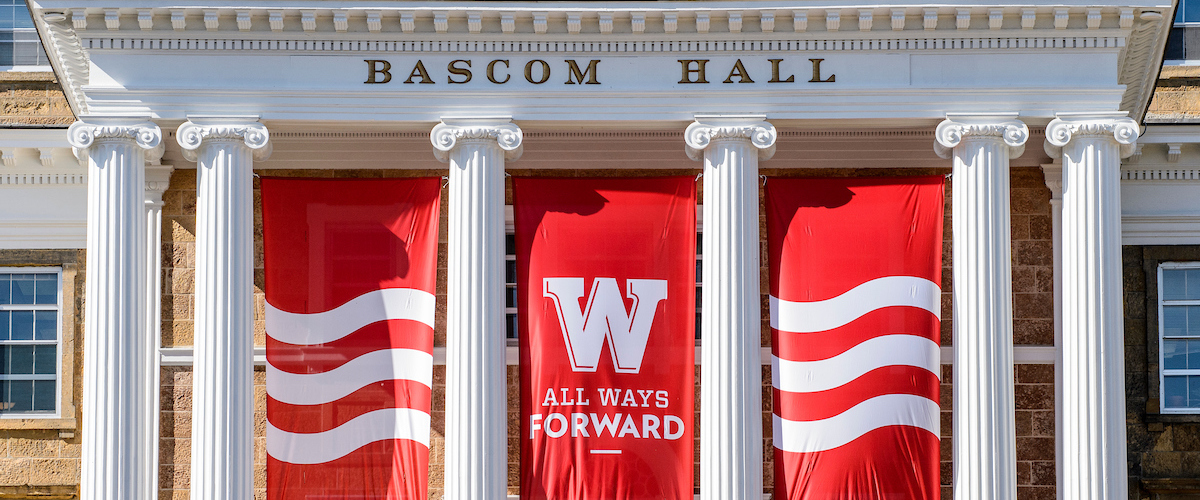
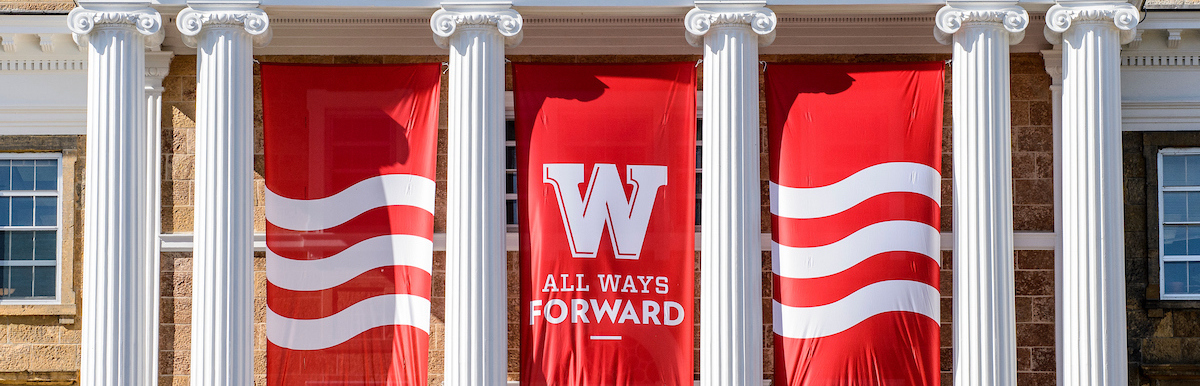
wording change, image reisze and index fix

diff --git a/public/app/views/pages/landing-page.html b/public/app/views/pages/landing-page.html
@@ -17,7 +17,7 @@
 					Mention that you created a repair online.
 				</li>
 				<li>
-					If you can, we strongly recommend that you back up your data.
+					If possible, we strongly recommend that you back up your data.
 				</li>
 				<li>
 					Please bring your power adapter for any non-Apple/Dell computers

diff --git a/public/app/views/index.html b/public/app/views/index.html
@@ -136,7 +136,7 @@
       </div>
     </div>
 
-	<!--Angular Section
+	<!--Angular Section-->
 	<main>
 		<div ng-view autoscroll="true"></div>
 	</main>
